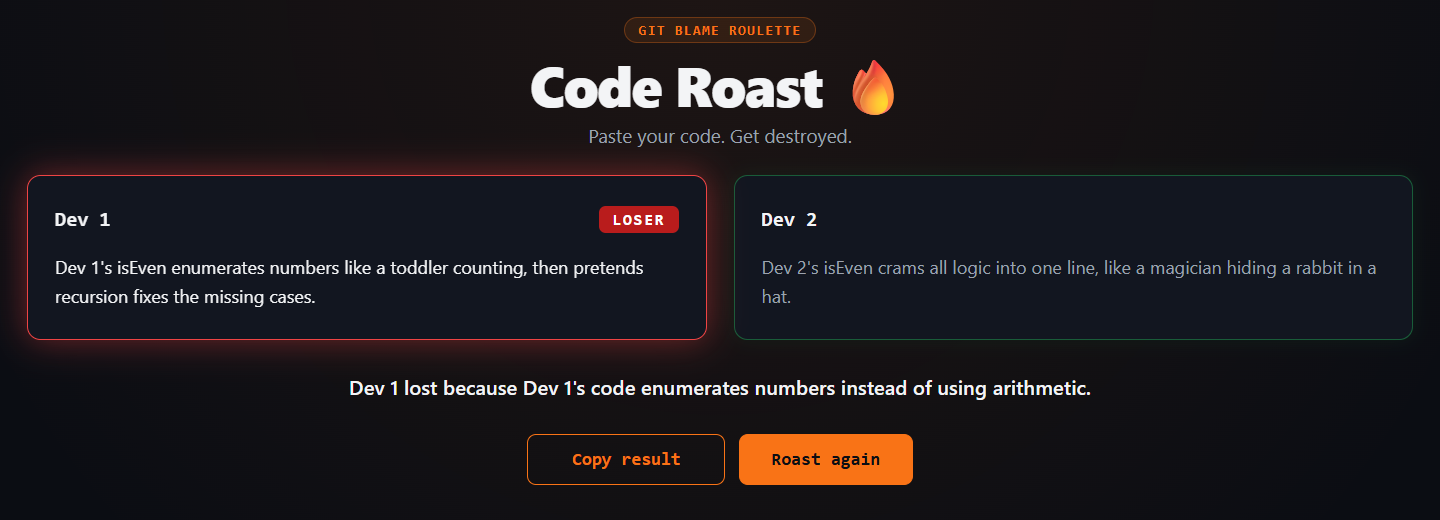
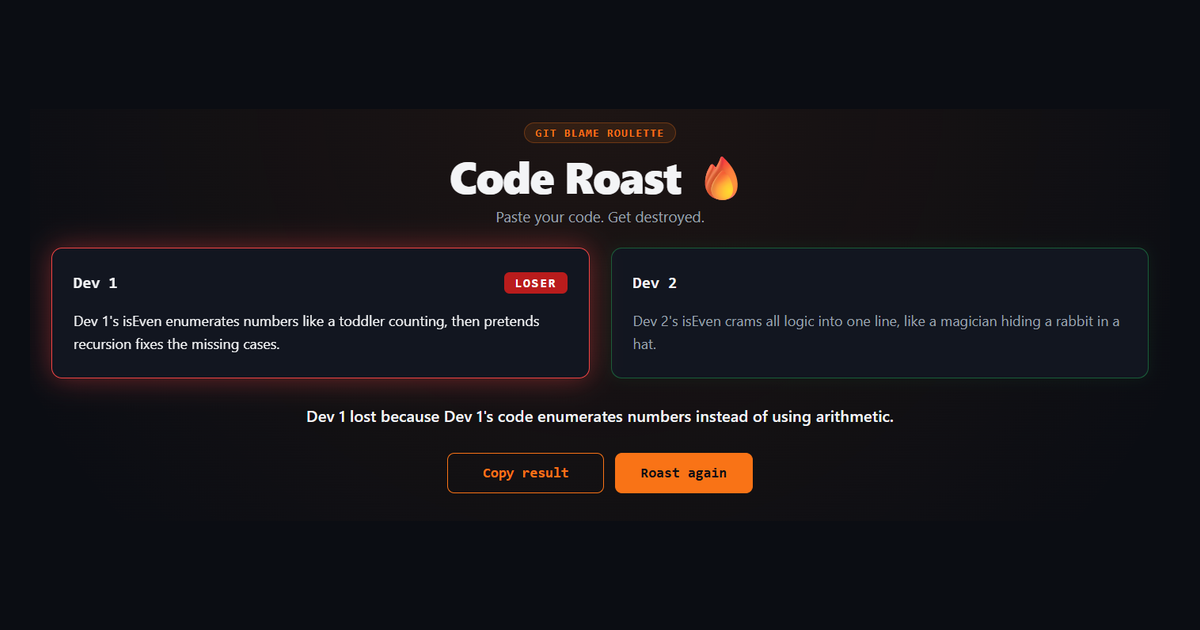
updated html view

diff --git a/index.html b/index.html
@@ -15,12 +15,15 @@
       property="og:description"
       content="Two developers paste their code, a brutally honest AI tech lead roasts both, and one of you walks away the LOSER."
     />
-    <meta name="twitter:card" content="summary" />
+    <meta property="og:url" content="https://code-roast-4zag.vercel.app" />
+    <meta property="og:image" content="https://code-roast-4zag.vercel.app/og-image.png" />
+    <meta name="twitter:card" content="summary_large_image" />
     <meta name="twitter:title" content="Code Roast 🔥" />
     <meta
       name="twitter:description"
       content="Two developers paste their code, a brutally honest AI tech lead roasts both, and one of you walks away the LOSER."
     />
+    <meta name="twitter:image" content="https://code-roast-4zag.vercel.app/og-image.png" />
   </head>
   <body>
     <div id="root"></div>
